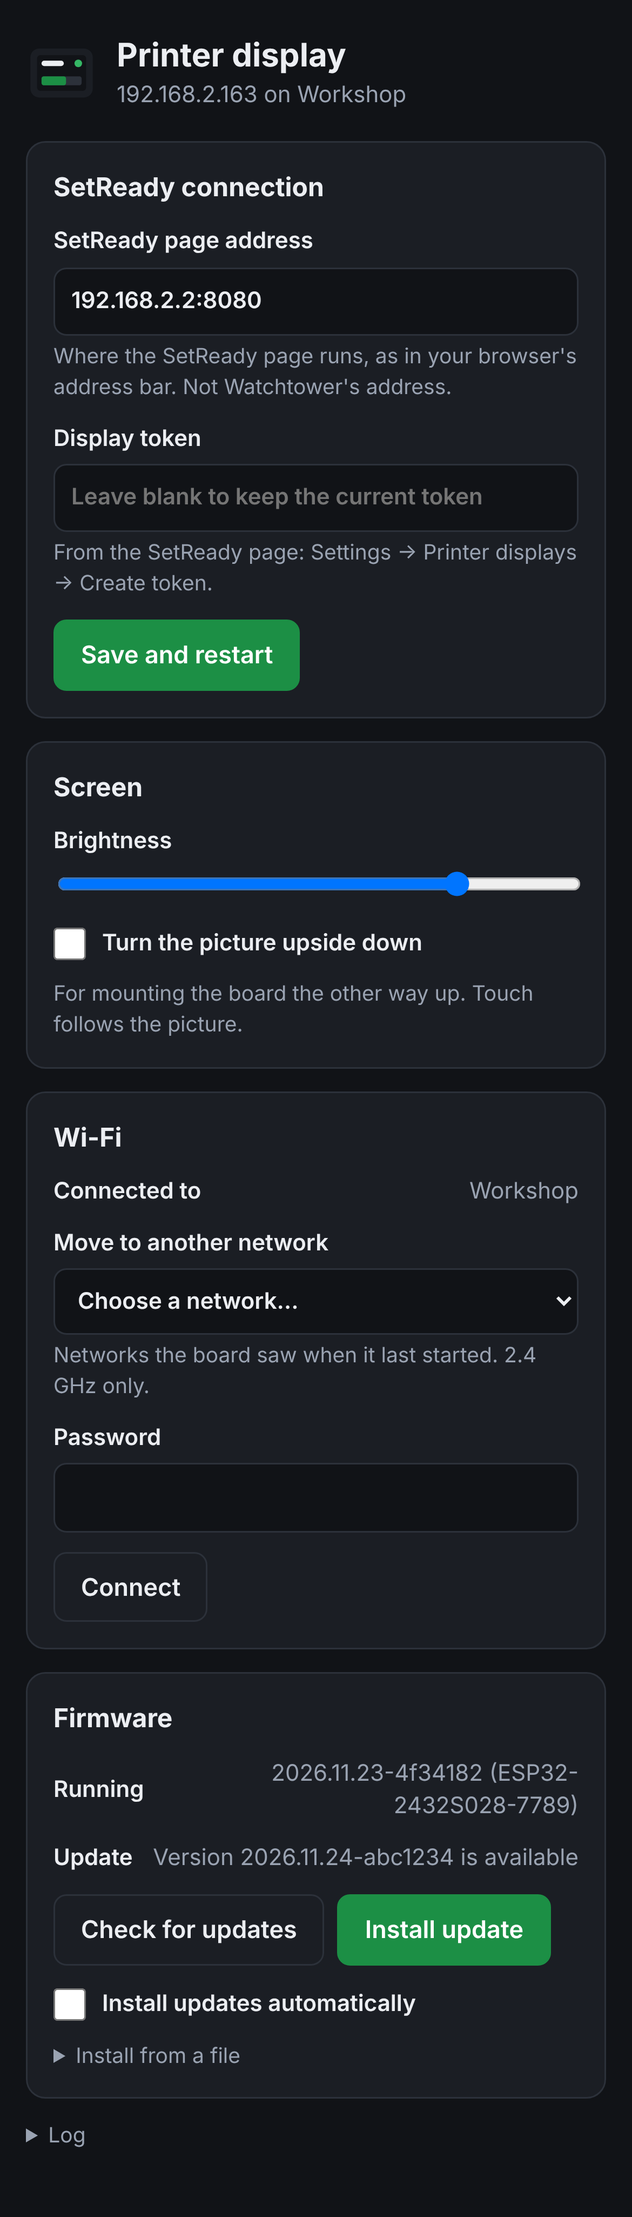
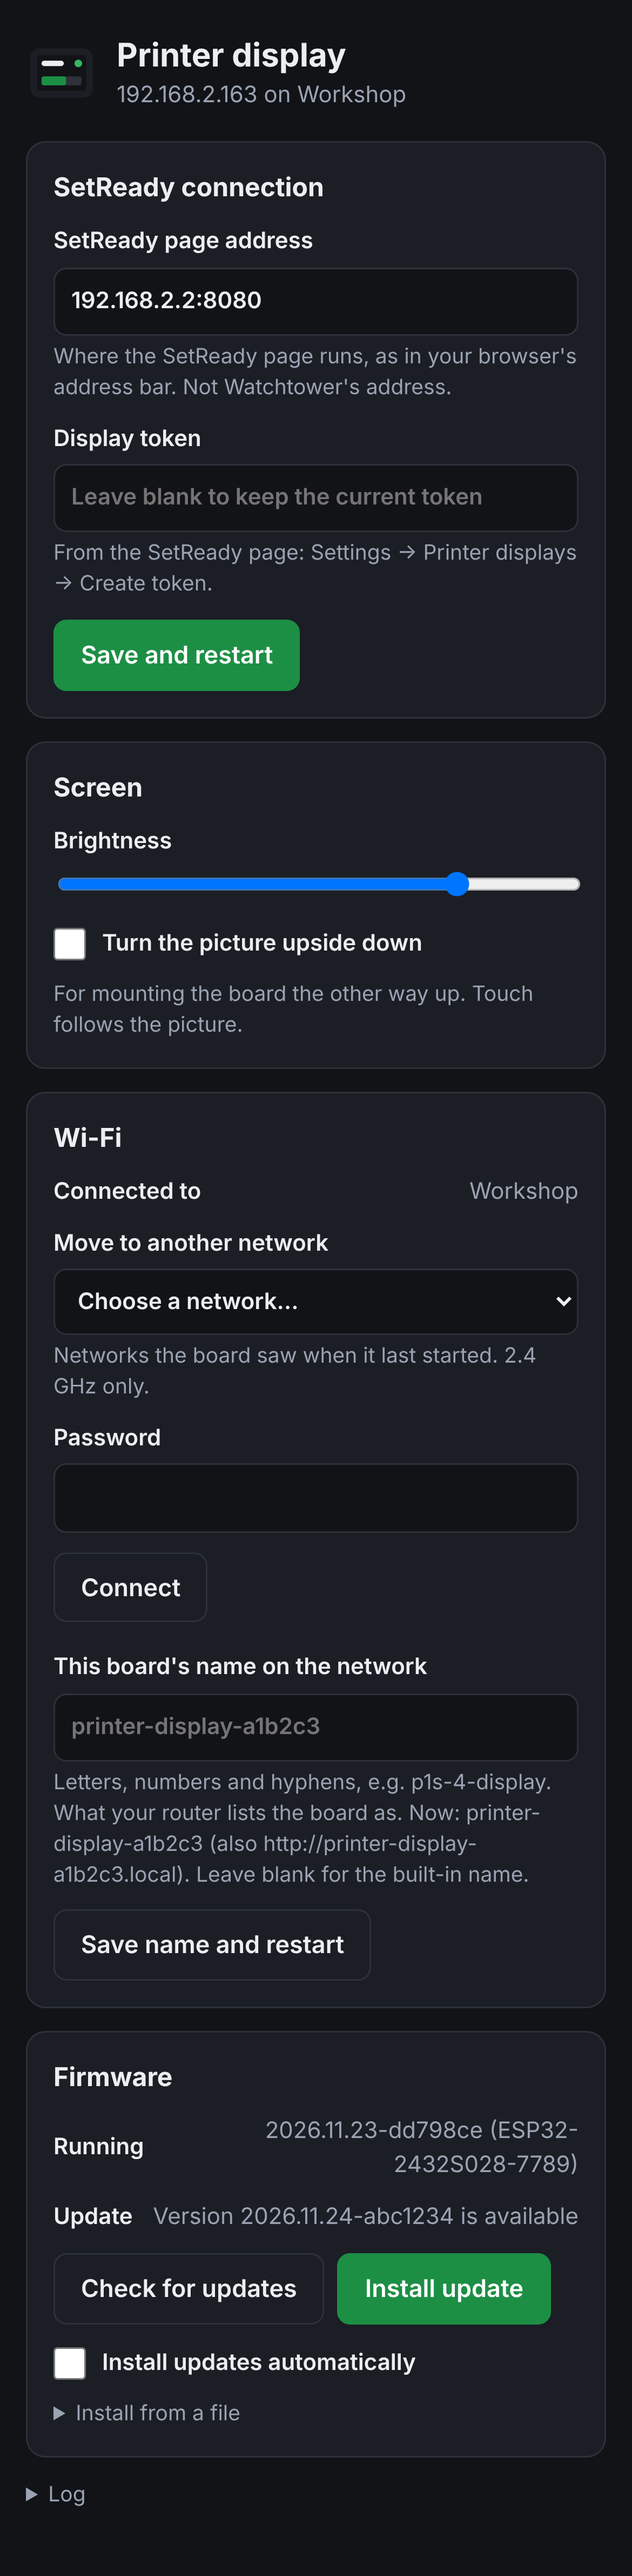
README: new display mock-ups and the board's settings page
Nine screens drawn from the current firmware's layout and sample
summaries, including Not ready, receiving a job, the job list and a
job's filaments. Also keep the printer's own status line while a job is
being received instead of repeating 'Receiving job'.

diff --git a/server.py b/server.py
@@ -1210,7 +1210,7 @@ def display_summary(name):
     got = (q.get("sending") or {}).get(name)
     if got and state != "offline":
         pct = got.get("pct")
-        out.update(status="Receiving job", head="Receiving job:", good=True, job=got["name"],
+        out.update(head="Receiving job:", good=True, job=got["name"],
                    fil=[], warn="", button="", pct=-1 if pct is None else pct,
                    bar="RECEIVING" if pct is None else "RECEIVING %d%%" % pct)
     # Ready with no job on its way yet: Set Ready can still be taken back.

diff --git a/README.md b/README.md
@@ -206,7 +206,7 @@ Light and dark themes follow the device setting.
 A small touch screen for the front of each printer, one per printer, so whoever is
 standing at the machine can see what it needs without opening the page.
 
-![Six display screens: starting up, Wi-Fi setup with a QR code, printing with time left and a progress bar, finished with a filament to load, finished and ready for the next job, and the queue page](docs/display-screens.png)
+![Nine display screens: starting up, Wi-Fi setup with a QR code, printing with time left and a progress bar, finished with a filament to load, finished with a job to pick up, ready with a Not ready button, receiving a job, the job list, and one job's filaments](docs/display-screens.png)
 
 *Mock-up of the screens with sample data.*
 
@@ -251,12 +251,17 @@ No software to install and nothing to edit; every board runs the same firmware.
 
 Each board has its own settings page on your network, where you can also:
 
-- move it to another Wi-Fi network;
+- move it to another Wi-Fi network, picked from a list of those nearby;
+- give it a name you will recognise on your network;
 - see which firmware version it is running;
 - check for a newer version, and install it over Wi-Fi, by hand or automatically;
 - upload a firmware file directly;
 - turn the picture upside down, for mounting either way round;
 - dim the screen.
+
+<img src="docs/display-settings.png" alt="The board's settings page on a phone: sections for the SetReady connection, screen, Wi-Fi and firmware" width="300">
+
+*Mock-up of a board's settings page.*
 
 Full instructions, troubleshooting and how to build the firmware yourself are in
 [display/README.md](display/README.md).
